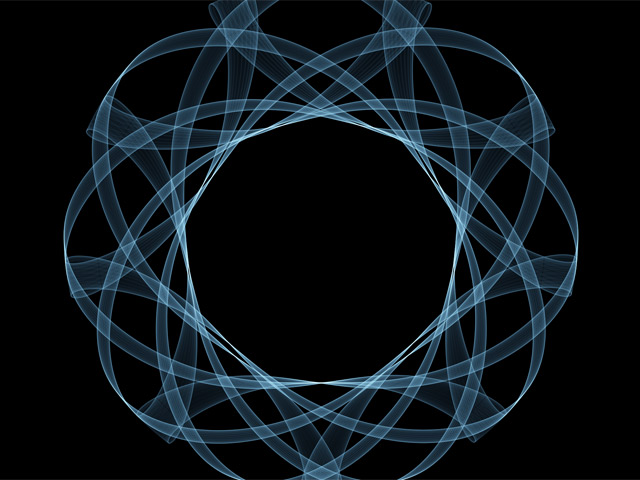
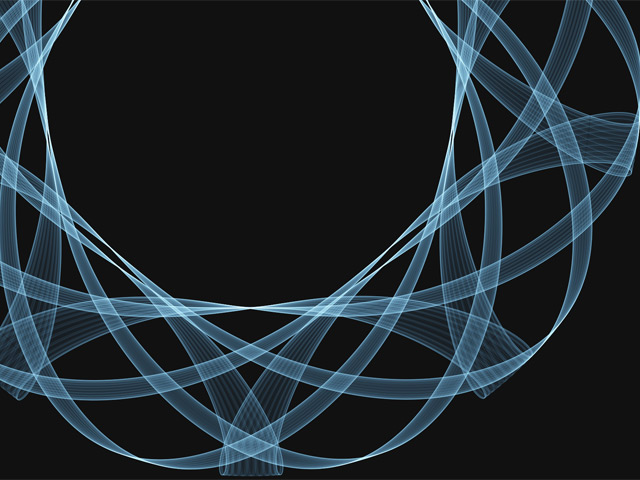
🐡

diff --git a/src/src/double-pendulum/index.css b/src/src/double-pendulum/index.css
@@ -1,7 +1,7 @@
 html, body {
   margin: 0;
   padding: 0;
-  background-color: black;
+  background-color: #111;
 }
 
 .gh-corner {
